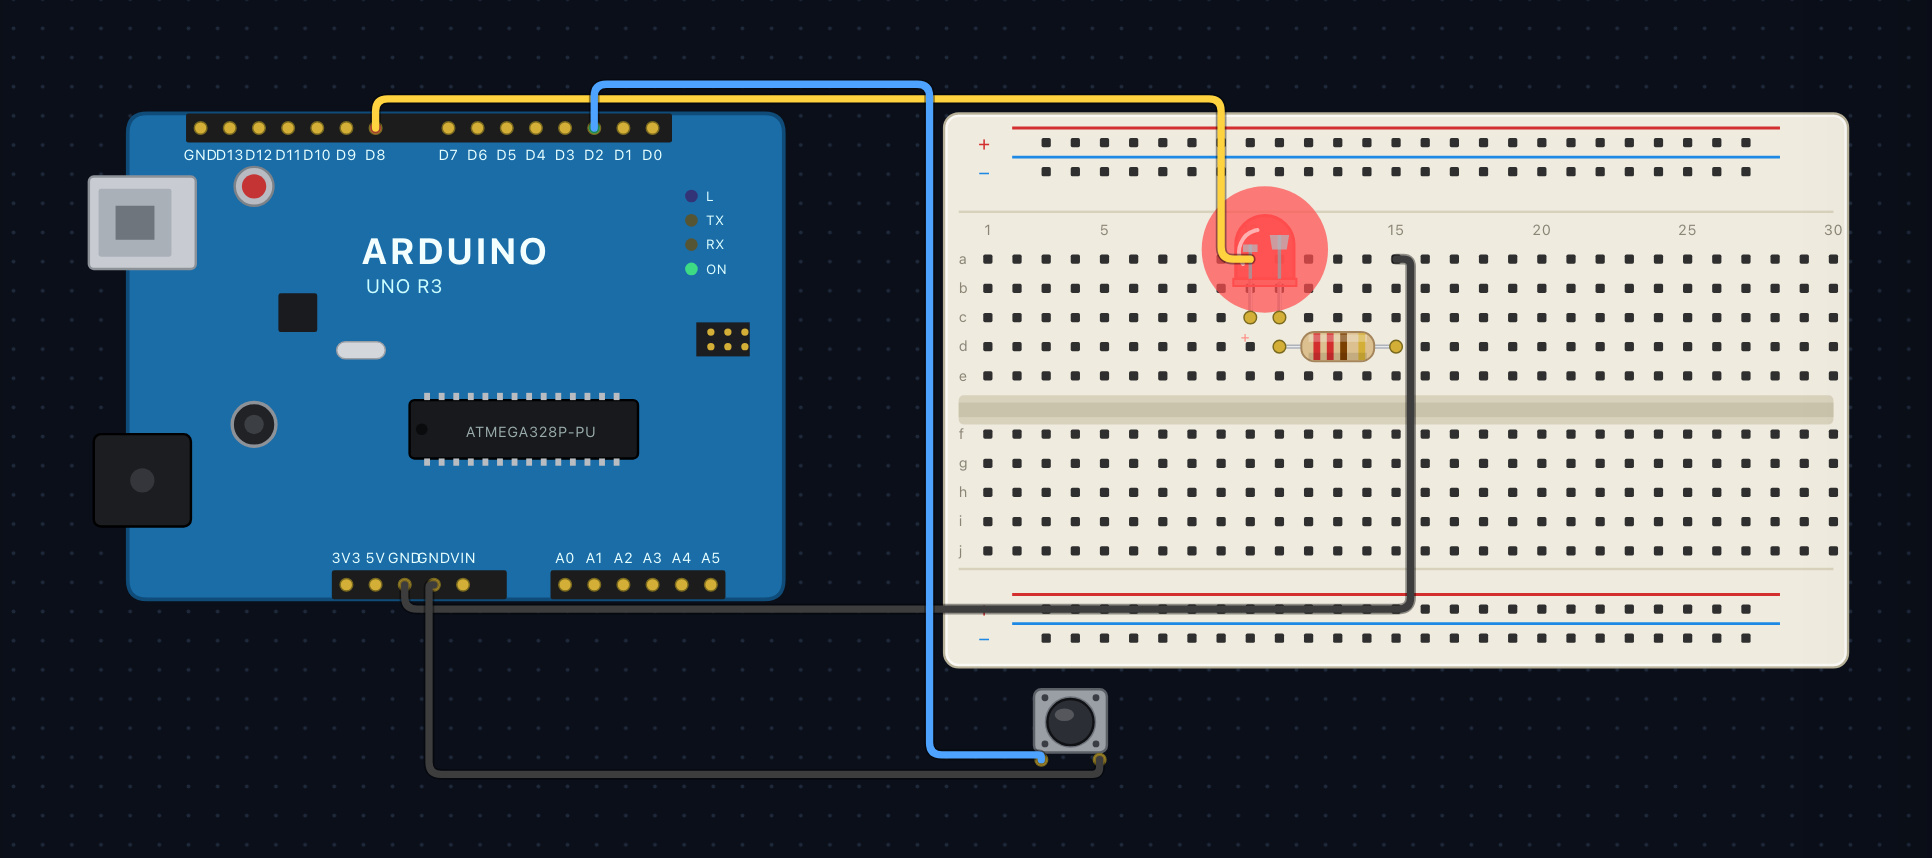
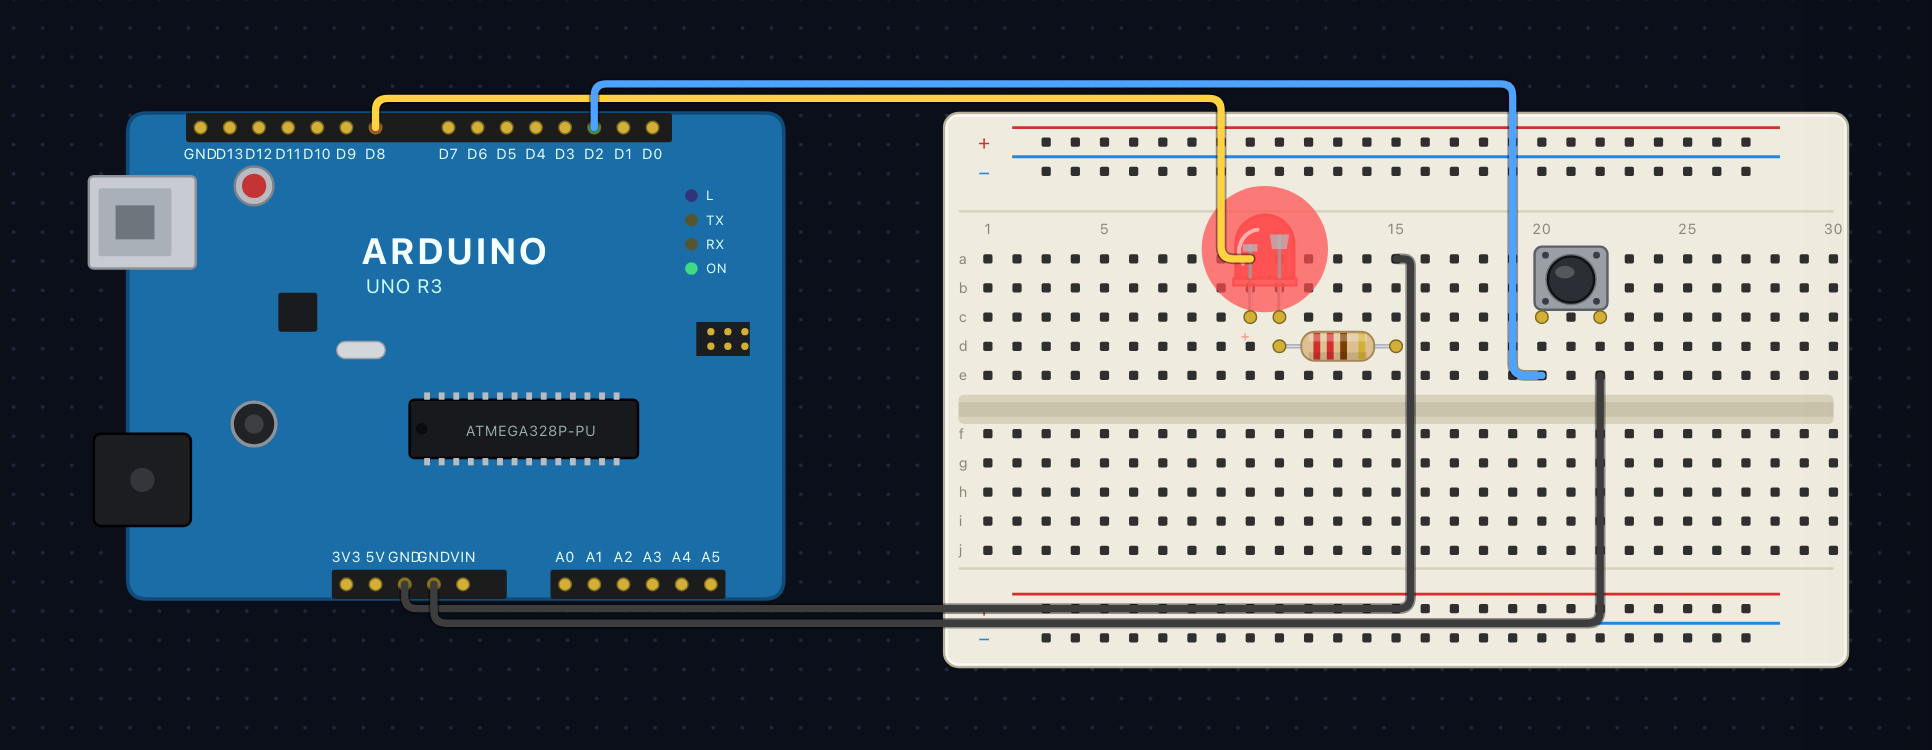
Arduino projeleri: malzeme listesi, adımlar ve simülatör şemaları tutarlı hale getirildi (parçalar breadboard'a takıldı)

Changed region(s): [[0.0311, 0.092, 0.9627, 0.92]]

diff --git a/index.html b/index.html
@@ -789,7 +789,7 @@ footer .wrap{display:flex;justify-content:space-between;gap:16px;flex-wrap:wrap}
    "LED'i breadboard'a tak. Uzun bacak (anot) bir sütunda, kısa bacak (katot) başka bir sütunda olsun.",
    "LED'in anot sütununa (uzun bacak) D8 pininden gelen bir kablo bağla.",
    "LED'in katot sütunundan başlayarak 220 Ω direnci tak; direncin diğer ucunu bir kabloyla GND'ye ver.",
-   "Butonu breadboard'ın ortadaki çukurunu aşacak şekilde tak. Bir bacağından D2'ye, karşı bacağından GND'ye kablo çek.",
+   "Butonu breadboard'a tak; iki bacağı ayrı sütunlarda olsun. Bir bacağın sütunundan D2'ye, diğer bacağın sütunundan GND'ye kablo çek.",
    "Arduino IDE'de kartı \"Arduino Uno\" seç, kodu yükle.",
    "Butona bas: her basışta LED'in durumu değişir."
   ],
@@ -847,8 +847,8 @@ footer .wrap{display:flex;justify-content:space-between;gap:16px;flex-wrap:wrap}
   "img": "assets/devre/pot-led.png",
   "steps": [
    "Devreyi enerjisiz kur. LED'i ve 220 Ω direnci breadboard'a tak: D9 → LED anot, LED katot → 220 Ω → GND.",
-   "Potansiyometrenin bir dış bacağını 5V'a, diğer dış bacağını GND'ye bağla.",
-   "Potansiyometrenin orta bacağını A0'a bağla.",
+   "Potansiyometreyi breadboard'a tak; üç bacağı ayrı sütunlarda olsun.",
+   "Bir dış bacağın sütunundan 5V'a, diğer dış bacağın sütunundan GND'ye, orta bacağın sütunundan A0'a kablo çek.",
    "Kodu yükle ve Seri Çizici'yi aç (9600 baud).",
    "Potansiyometreyi yavaşça çevir: LED'in parlaklığı ve Seri Çizici'deki 0–255 arası değer birlikte değişir."
   ],
@@ -878,7 +878,7 @@ footer .wrap{display:flex;justify-content:space-between;gap:16px;flex-wrap:wrap}
    "Breadboard",
    "6 × LED (tercihen kırmızı)",
    "1 × 220 Ω direnç",
-   "Jumper kablolar (13 adet)"
+   "Jumper kablolar (14 adet)"
   ],
   "wiring": [
    [
@@ -1143,7 +1143,7 @@ footer .wrap{display:flex;justify-content:space-between;gap:16px;flex-wrap:wrap}
    "Devreyi enerjisiz kur. HC-SR04'ü breadboard'a tak; iki \"göz\" ileri baksın, dört bacak ayrı sütunlarda olsun.",
    "VCC bacağını 5V'a, GND bacağını GND'ye bağla.",
    "TRIG bacağını D7'ye, ECHO bacağını D6'ya bağla.",
-   "Aktif buzzer'ı tak: uzun bacağı D8'e, kısa bacağı GND'ye.",
+   "Aktif buzzer'ı breadboard'a tak. Uzun (+) bacağın sütunundan D8'e, kısa bacağın sütunundan GND'ye kablo çek.",
    "Kodu yükle ve Seri Çizici'yi aç. Elini sensörün önünde yaklaştırıp uzaklaştır; cm değerinin değiştiğini gör.",
    "30 cm içine girince buzzer öter; nesne yaklaştıkça bip aralığı kısalır."
   ],
@@ -1204,8 +1204,8 @@ footer .wrap{display:flex;justify-content:space-between;gap:16px;flex-wrap:wrap}
   ],
   "img": "assets/devre/pir-hareket.png",
   "steps": [
-   "Devreyi enerjisiz kur. PIR sensörünün üç bacağını kontrol et: VCC, OUT, GND (kartın üzerinde yazar).",
-   "VCC'yi 5V'a, GND'yi GND'ye, OUT'u D2'ye bağla.",
+   "Devreyi enerjisiz kur. PIR sensörünü breadboard'a tak; VCC, OUT ve GND bacakları ayrı sütunlarda olsun (isimleri kartın üzerinde yazar).",
+   "VCC sütunundan 5V'a, GND sütunundan GND'ye, OUT sütunundan D2'ye kablo çek.",
    "LED devresini kur: D8 → LED anot, LED katot → 220 Ω → GND.",
    "Kodu yükle ve Seri Çizici'yi aç.",
    "Sensörün önünde elini hareket ettir: LED yanar ve \"Hareket var\" yazılır. Hareket durunca bir süre sonra LED söner."
@@ -1241,11 +1241,19 @@ footer .wrap{display:flex;justify-content:space-between;gap:16px;flex-wrap:wrap}
   "wiring": [
    [
     "5V",
-    "Potansiyometre bir dış bacak ve servo 5V (kırmızı)"
+    "Breadboard + (artı) rayı"
+   ],
+   [
+    "+ rayı",
+    "Potansiyometre bir dış bacak ve servo kırmızı kablo (VCC)"
    ],
    [
     "GND",
-    "Potansiyometre diğer dış bacak ve servo GND (kahverengi ya da siyah)"
+    "Potansiyometre diğer dış bacak"
+   ],
+   [
+    "GND (ikinci GND pini)",
+    "Servo kahverengi ya da siyah kablo"
    ],
    [
     "A0",
@@ -1259,8 +1267,8 @@ footer .wrap{display:flex;justify-content:space-between;gap:16px;flex-wrap:wrap}
   "img": "assets/devre/servo-pot.png",
   "steps": [
    "Devreyi enerjisiz kur. Potansiyometreyi breadboard'a tak; üç bacağı ayrı sütunlarda olsun.",
-   "Bir dış bacağını 5V'a, diğer dış bacağını GND'ye bağla. Orta bacağı A0'a bağla.",
-   "Servonun kablolarını renklerine göre bağla: kırmızı 5V, kahverengi ya da siyah GND, turuncu ya da sarı D9.",
+   "Arduino'nun 5V pinini breadboard'un + rayına bağla. Potansiyometrenin bir dış bacağını bu raya, diğer dış bacağını GND'ye bağla. Orta bacağı A0'a bağla.",
+   "Servonun kablolarını renklerine göre bağla: kırmızı + rayına, kahverengi ya da siyah GND'ye, turuncu ya da sarı D9'a.",
    "Kodu yükle. Servo kütüphanesi Arduino IDE ile birlikte gelir, ayrıca kurmana gerek yok.",
    "Potansiyometreyi yavaşça çevir: servo kolu 0°–180° arasında hareket eder."
   ],
